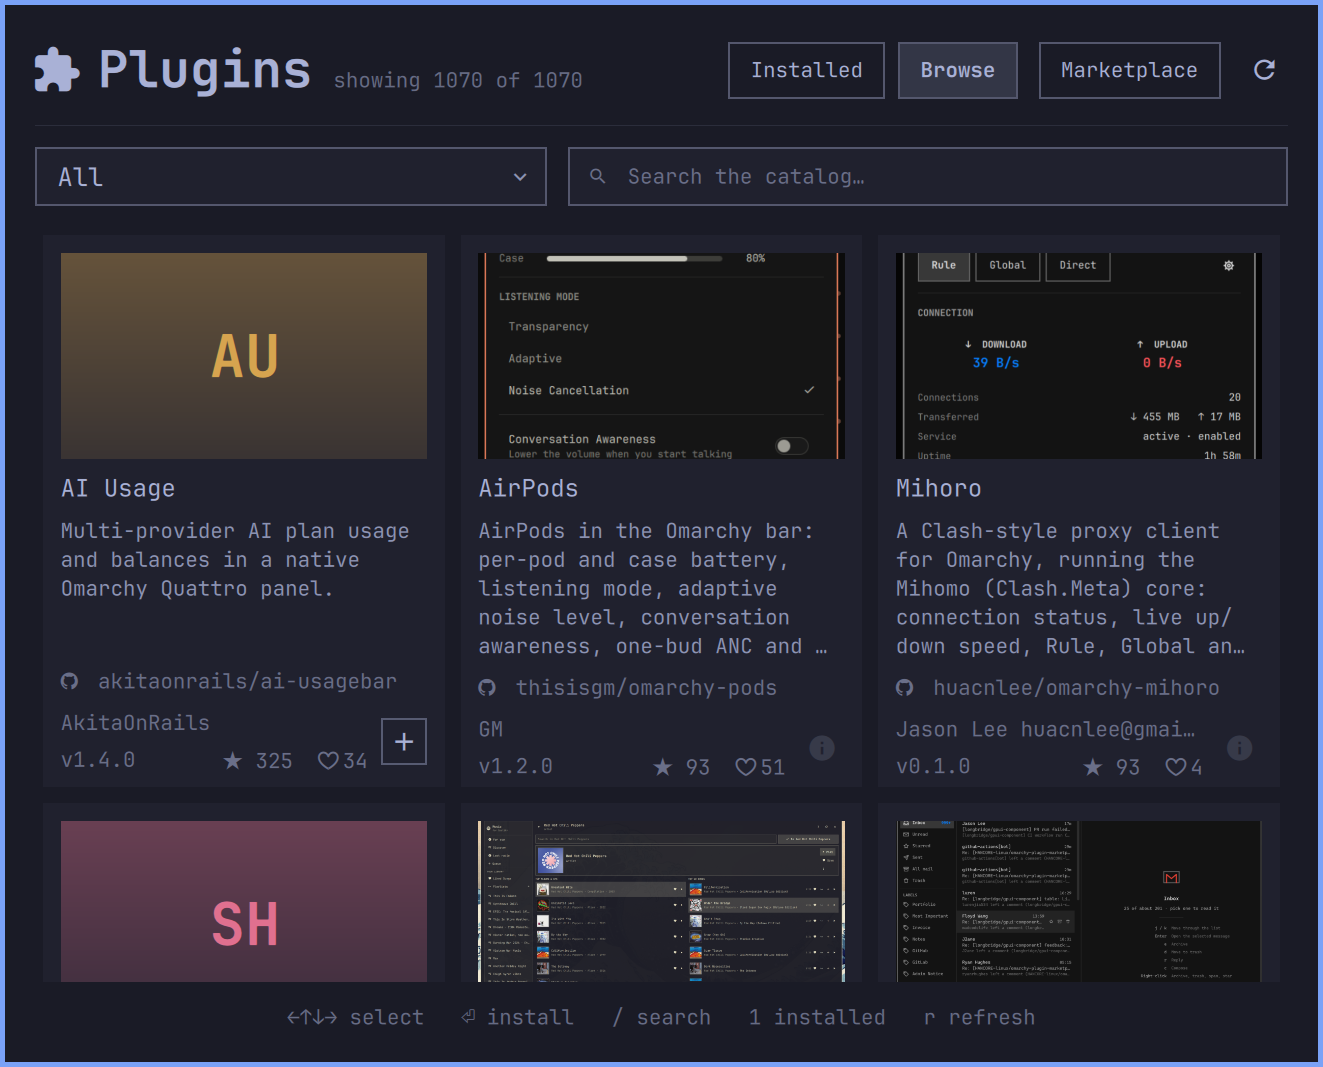
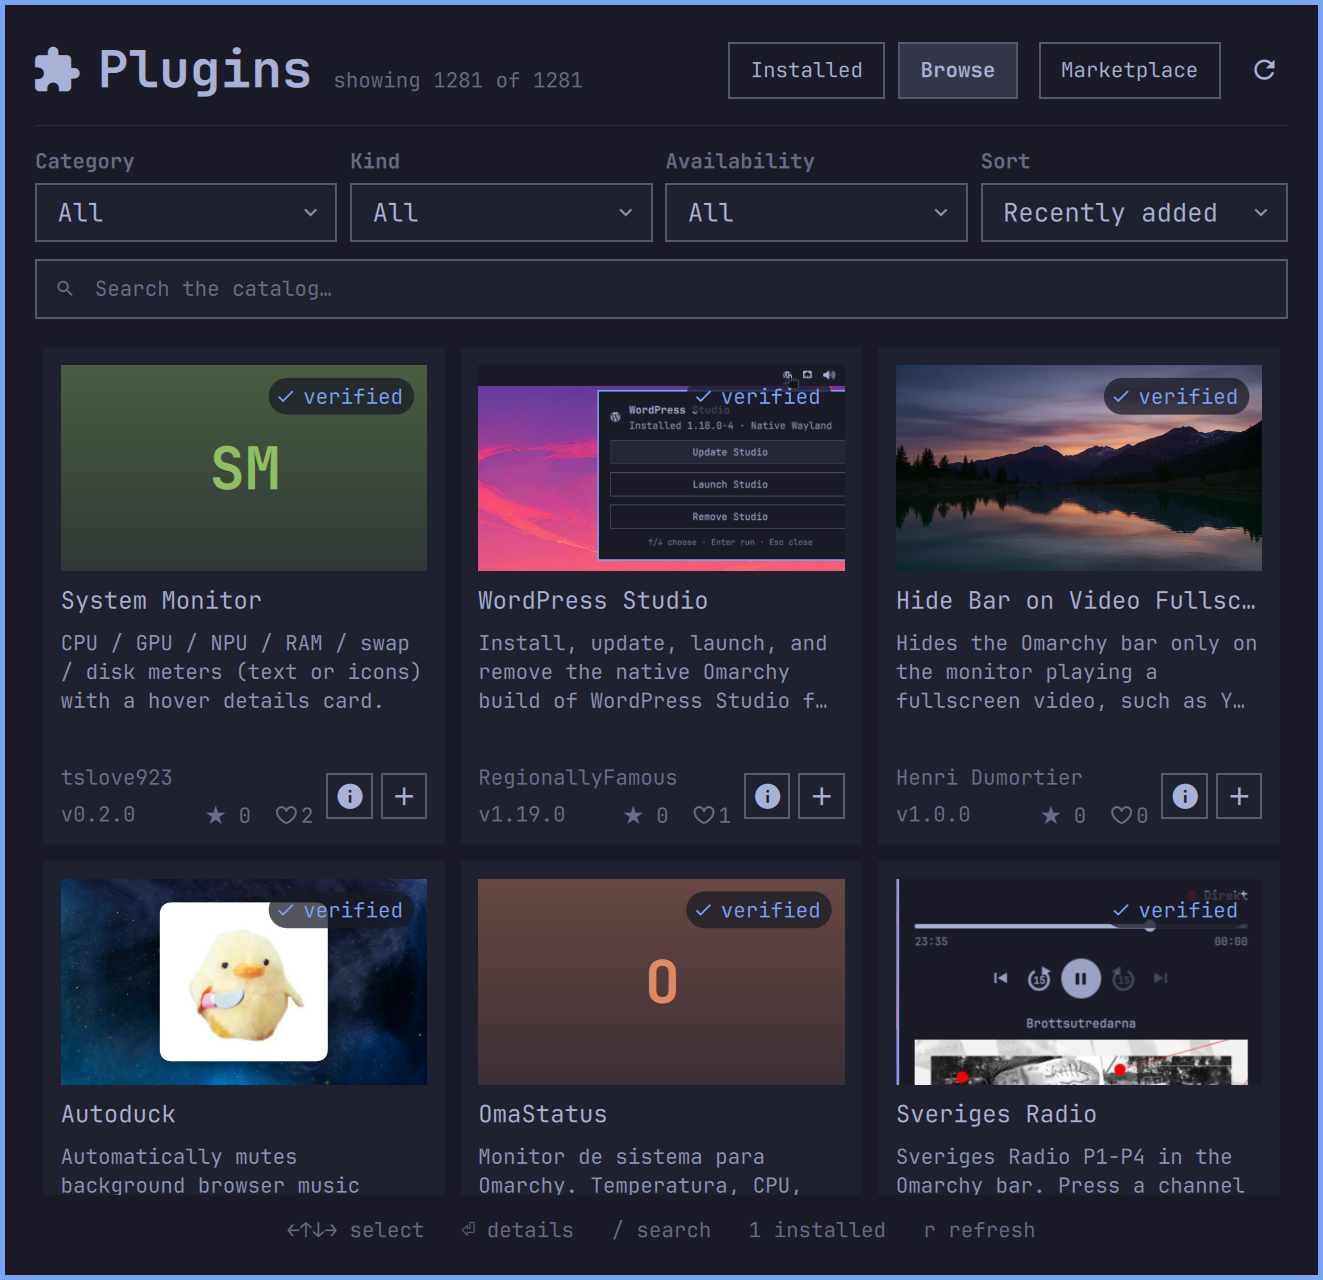
feat: add installed update filter

diff --git a/Model.js b/Model.js
@@ -22,6 +22,7 @@ var ALL_KINDS = "all"
 var ALL_STATUSES = "all"
 var STATUS_ENABLED = "enabled"
 var STATUS_DISABLED = "disabled"
+var STATUS_UPDATE = "update"
 
 // The loader emits four fixed sections in order. Anything else — a truncated
 // stream, a section that never printed — is a failed read, not empty data.
@@ -317,24 +318,28 @@ function filterByKind(rows, kind) {
   return out
 }
 
-// The shell already reports this truth on every row. Filtering projects that
-// boolean; it does not maintain a second status representation.
+// Enabled state and update availability are already authoritative row facts.
+// Filtering projects those booleans; it does not maintain another status.
 function statusOptions() {
   return [
     { value: ALL_STATUSES, label: "All" },
     { value: STATUS_ENABLED, label: "Enabled" },
-    { value: STATUS_DISABLED, label: "Disabled" }
+    { value: STATUS_DISABLED, label: "Disabled" },
+    { value: STATUS_UPDATE, label: "Update" }
   ]
 }
 
 function filterByStatus(rows, status) {
   if (!status || status === ALL_STATUSES) return rows || []
-  if (status !== STATUS_ENABLED && status !== STATUS_DISABLED) return []
+  if (status !== STATUS_ENABLED && status !== STATUS_DISABLED && status !== STATUS_UPDATE) return []
 
-  var wanted = status === STATUS_ENABLED
   var out = []
   for (var i = 0; i < (rows || []).length; i++) {
-    if (rows[i].enabled === wanted) out.push(rows[i])
+    if (status === STATUS_UPDATE) {
+      if (rows[i].behind === true) out.push(rows[i])
+    } else if (rows[i].enabled === (status === STATUS_ENABLED)) {
+      out.push(rows[i])
+    }
   }
   return out
 }
@@ -376,9 +381,18 @@ function isFiltering(kind, status, query) {
 function emptyMessage(kind, status, query) {
   var needle = String(query || "").trim()
   var kindNarrowed = kind && kind !== ALL_KINDS
-  var statusNarrowed = status === STATUS_ENABLED || status === STATUS_DISABLED
+  var updateNarrowed = status === STATUS_UPDATE
+  var statusNarrowed = status === STATUS_ENABLED || status === STATUS_DISABLED || updateNarrowed
   var prefix = statusNarrowed ? status + " " : ""
 
+  if (updateNarrowed && needle !== "" && kindNarrowed)
+    return "No confirmed " + filterKindLabel(kind).toLowerCase() + " plugin updates match “" + needle + "”."
+  if (updateNarrowed && needle !== "")
+    return "No confirmed plugin updates match “" + needle + "”."
+  if (updateNarrowed && kindNarrowed)
+    return "No confirmed " + filterKindLabel(kind).toLowerCase() + " plugin updates found."
+  if (updateNarrowed)
+    return "No confirmed updates found."
   if (needle !== "" && kindNarrowed)
     return "No " + prefix + filterKindLabel(kind).toLowerCase() + " plugins match “" + needle + "”."
   if (needle !== "")

diff --git a/README.md b/README.md
@@ -8,7 +8,7 @@ and enable, disable, update, or remove what you already have.
 
 ![The Installed tab: a puzzle icon and Plugins heading above an add-repository
 field, labelled Kind and Status dropdowns, a Search field, and separated plugin
-rows whose GitHub checkout versions link beside switches and actions](preview.png)
+rows with descriptions, metadata, repository links, switches, and actions](preview.png)
 
 ## What it does
 
@@ -71,8 +71,10 @@ Three controls share a row and narrow both lists at once:
   filter that would match nothing. A plugin that replaces the whole bar and one
   that mounts inside it share the **Bar-widget** option, because both answer the
   same question; each row still names its own kind.
-- **Status filter** — **All**, **Enabled**, or **Disabled**, read directly from
-  the same on/off state shown by each row's switch.
+- **Status filter** — **All**, **Enabled**, **Disabled**, or **Update**.
+  Enabled/Disabled read the same on/off state shown by each row's switch;
+  Update shows checkouts whose background check confirmed a different remote
+  commit.
 - **Search by name** (`/`) — matches the name and the id, so typing
   `hyprmoncfg` finds `crmne.hyprmoncfg`. It deliberately does not search
   descriptions: a search that matched prose would surface plugins whose names
